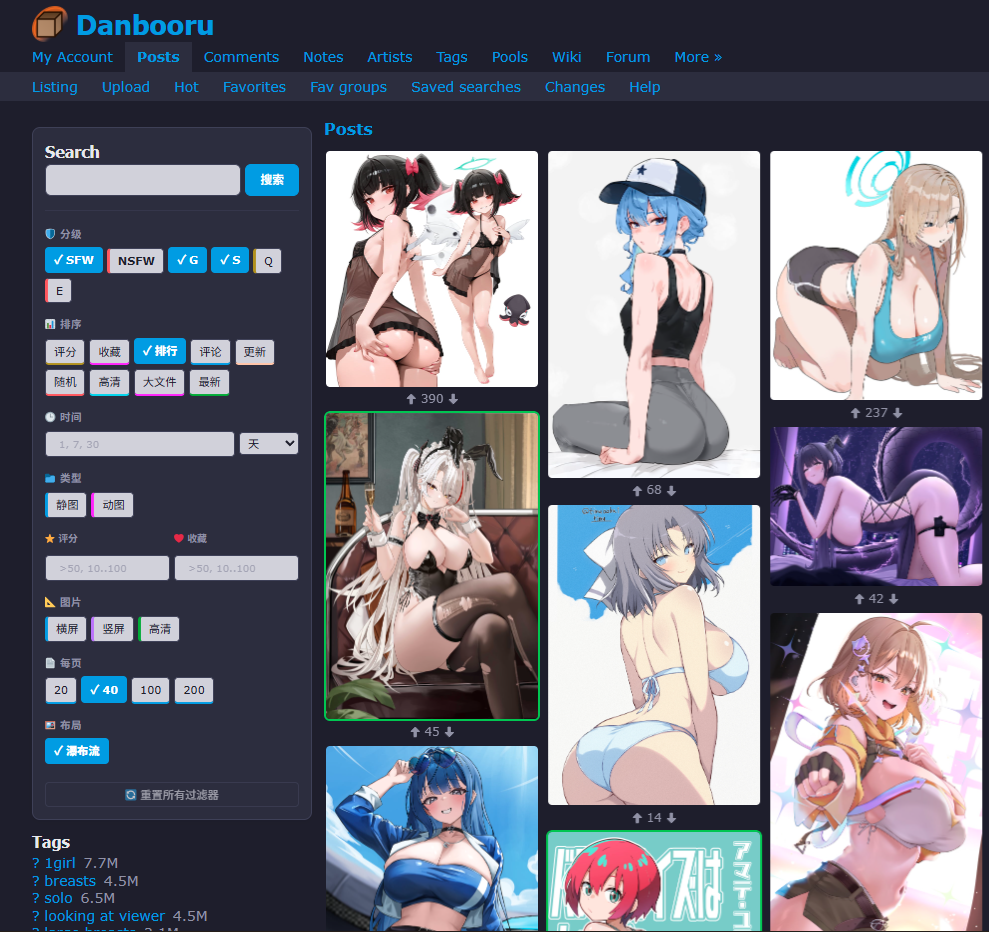
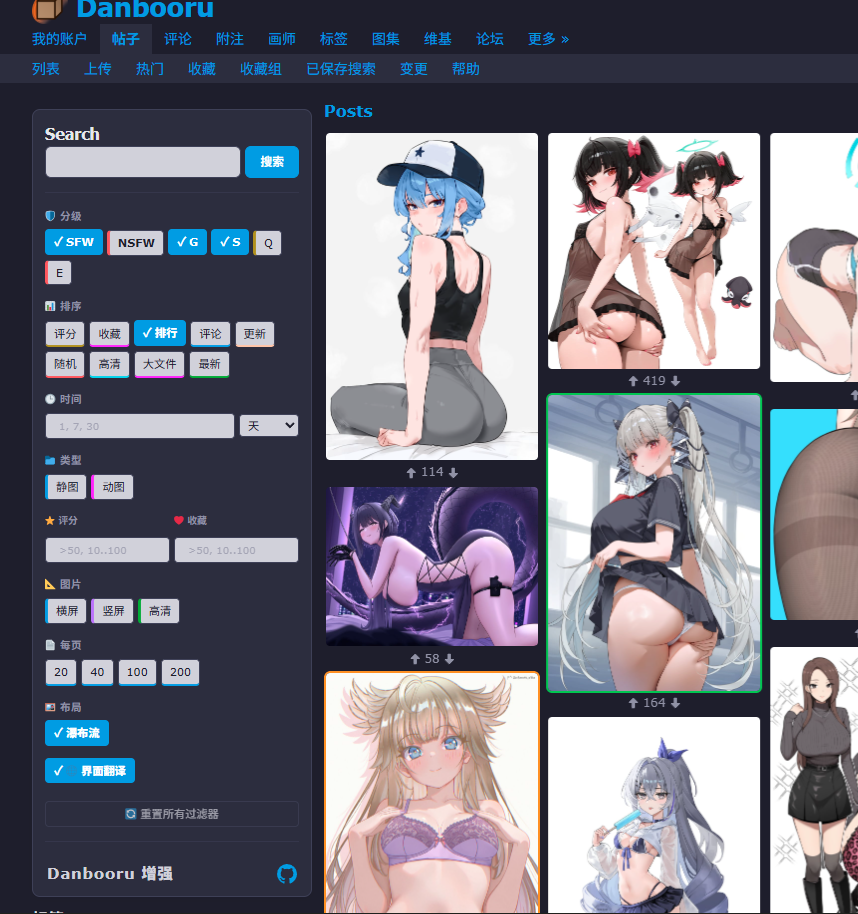
🌐 feat(i18n): ui的翻译

diff --git a/translator.js b/translator.js
@@ -1,0 +1,165 @@
+/**
+ * Danbooru UI Translator
+ * Responsible for translating native Danbooru elements into the user's language.
+ */
+
+(function() {
+    'use strict';
+
+    const SELECTORS = {
+        navLinks: 'nav#nav a, #main-menu a, .subnav a',
+        headings: '#sidebar h2, #sidebar-nav h2, #content h1, #content h2, #a-site-map h2',
+        postInfoItems: '[id^="post-info-"]',
+        postOptionLinks: '#post-options li a, .post-option-link',
+        commentHeader: '#comments h2',
+        siteMapLinks: '#a-site-map a'
+    };
+
+    const TRANSLATION_MAP = {
+        // Top Navigation & Subnav
+        'Posts': 'site_ui_posts',
+        'Tags': 'site_ui_tags',
+        'Artists': 'site_ui_artists',
+        'Characters': 'site_ui_characters',
+        'Copyrights': 'site_ui_copyrights',
+        'Comments': 'site_ui_comments',
+        'Forum': 'site_ui_forum',
+        'Wiki': 'site_ui_wiki',
+        'Help': 'site_ui_help',
+        'More': 'site_ui_more',
+        'My Account': 'site_ui_my_account',
+        'Notes': 'site_ui_notes',
+        'Pools': 'site_ui_pools',
+        'Listing': 'site_ui_listing',
+        'Upload': 'site_ui_upload',
+        'Hot': 'site_ui_hot',
+        'Favorites': 'site_ui_favorites',
+        'Fav groups': 'site_ui_fav_groups',
+        'Saved searches': 'site_ui_saved_searches',
+        'Changes': 'site_ui_changes',
+
+        // Site Map & Headers
+        'Post Events': 'site_ui_post_events',
+        'Artist commentary': 'site_ui_artist_commentary',
+        'Reports': 'site_ui_reports',
+        'Site': 'site_ui_site_section',
+        'Profile': 'site_ui_profile',
+        'Users': 'site_ui_users',
+        'Admin': 'site_ui_admin',
+        'Legal': 'site_ui_legal',
+        
+        // Site Map Links
+        'Popular': 'site_ui_popular',
+        'Votes': 'site_ui_votes',
+        'Most Viewed': 'site_ui_most_viewed',
+        'Similar Image Search': 'site_ui_similar_search',
+        'Tag History': 'site_ui_tag_history',
+        'Events': 'site_ui_events',
+        'Appeals': 'site_ui_appeals',
+        'Approvals': 'site_ui_approvals',
+        'Disapprovals': 'site_ui_disapprovals',
+        'Flags': 'site_ui_flags',
+        'Replacements': 'site_ui_replacements',
+        'Aliases': 'site_ui_aliases',
+        'Implications': 'site_ui_implications',
+        'AI Tags': 'site_ui_ai_tags',
+        'Related Tags': 'site_ui_related_tags',
+        'Cheat sheet': 'site_ui_cheat_sheet',
+        'Gallery': 'site_ui_gallery',
+        'User Reports': 'site_ui_user_reports',
+        'Top Searches': 'site_ui_top_searches',
+        'Missed Searches': 'site_ui_missed_searches',
+        'Bulk Update Requests': 'site_ui_bulk_update',
+        'RSS': 'site_ui_rss',
+        'Mod Actions': 'site_ui_mod_actions',
+        'Moderation Reports': 'site_ui_mod_reports',
+        'Settings': 'site_ui_settings',
+        'Uploads': 'site_ui_uploads',
+        'Dmails': 'site_ui_dmails',
+        'Upgrade account': 'site_ui_upgrade',
+        'Bans': 'site_ui_bans',
+        'Name Changes': 'site_ui_name_changes',
+        'Feedback': 'site_ui_feedback',
+        'Site Status': 'site_ui_site_status',
+        'Site Statistics': 'site_ui_site_statistics',
+        'Source Code': 'site_ui_source_code',
+        'User Scripts': 'site_ui_user_scripts',
+        'Keyboard Shortcuts': 'site_ui_keyboard',
+        'API Documentation': 'site_ui_api',
+        'Background Jobs': 'site_ui_background_jobs',
+        'Privacy Policy': 'site_ui_privacy',
+        'Terms of Service': 'site_ui_tos',
+        '2257 Statement': 'site_ui_2257',
+        'DMCA': 'site_ui_dmca',
+
+        // Sidebar / Meta
+        'Options': 'site_ui_sidebar_options',
+        'History': 'site_ui_sidebar_history',
+        'Statistics': 'site_ui_sidebar_statistics',
+        'Information': 'site_ui_sidebar_information',
+
+        // Post Info Labels
+        'Uploader': 'site_ui_uploader',
+        'Date': 'site_ui_date',
+        'Size': 'site_ui_size',
+        'Source': 'site_ui_source',
+        'Rating': 'site_ui_rating',
+        'Score': 'site_ui_score',
+        'Status': 'site_ui_status'
+    };
+
+    function translateTextNode(node) {
+        if (!node || !node.textContent) return;
+        
+        let originalText = node.textContent;
+        let trimmedText = originalText.trim();
+        
+        // Clean text for matching: remove colons, quotes, and navigation arrows like »
+        let cleanText = trimmedText.replace(/[:»]/g, '').trim();
+        
+        if (cleanText && TRANSLATION_MAP[cleanText]) {
+            const translated = chrome.i18n.getMessage(TRANSLATION_MAP[cleanText]);
+            if (translated && translated !== TRANSLATION_MAP[cleanText]) {
+                // Preserve trailing symbols
+                let result = translated;
+                if (trimmedText.endsWith(':')) result += ':';
+                if (trimmedText.endsWith(' »')) result += ' »';
+                
+                node.textContent = originalText.replace(trimmedText, result);
+            }
+        }
+    }
+
+    function translateItems(selector) {
+        const items = document.querySelectorAll(selector);
+        items.forEach(item => {
+            for (let child of item.childNodes) {
+                if (child.nodeType === Node.TEXT_NODE) {
+                    translateTextNode(child);
+                }
+            }
+        });
+    }
+
+    function translateSiteUI() {
+        const enabled = localStorage.getItem('danbooru-enhanced-site-i18n') === 'true';
+        if (!enabled) return;
+
+        translateItems(SELECTORS.navLinks);
+        translateItems(SELECTORS.headings);
+        translateItems(SELECTORS.postInfoItems);
+        translateItems(SELECTORS.postOptionLinks);
+        translateItems(SELECTORS.siteMapLinks);
+    }
+
+    window.DanbooruTranslator = {
+        apply: translateSiteUI
+    };
+
+    // Initial run
+    if (document.readyState === 'loading') {
+        document.addEventListener('DOMContentLoaded', translateSiteUI);
+    } else {
+        translateSiteUI();
+    }
+})();

diff --git a/content.js b/content.js
@@ -591,6 +591,7 @@
             unit_w: chrome.i18n.getMessage('unit_week'),
             unit_mo: chrome.i18n.getMessage('unit_month'),
             unit_y: chrome.i18n.getMessage('unit_year'),
+            site_i18n: chrome.i18n.getMessage('site_i18n_btn'),
         };
 
         const isRatingActive = (val) => (state.rating || '').split(',').includes(val);
@@ -696,6 +697,13 @@
                 </div>
             </div>
 
+            <!-- 网站汉化 -->
+            <div class="quick-filter-section">
+                <div class="quick-filter-group">
+                    <button class="quick-filter-btn btn-site-i18n ${localStorage.getItem('danbooru-enhanced-site-i18n') === 'true' ? 'active' : ''}" id="qf-site-i18n-toggle">${i18n.site_i18n}</button>
+                </div>
+            </div>
+
             <button class="quick-filter-btn btn-reset" id="qf-reset">${i18n.reset}</button>
             <div class="qf-divider"></div>
             <div class="qf-footer">
@@ -756,6 +764,19 @@
 
             if (btn.id === 'qf-masonry-toggle') {
                 setMasonryEnabled(!isMasonryEnabled());
+                return;
+            }
+
+            if (btn.id === 'qf-site-i18n-toggle') {
+                const currentState = localStorage.getItem('danbooru-enhanced-site-i18n') === 'true';
+                const newState = !currentState;
+                localStorage.setItem('danbooru-enhanced-site-i18n', newState);
+                btn.classList.toggle('active', newState);
+                if (newState) {
+                    if (window.DanbooruTranslator) window.DanbooruTranslator.apply();
+                } else {
+                    location.reload(); // Reload to restore original English text
+                }
                 return;
             }
 
